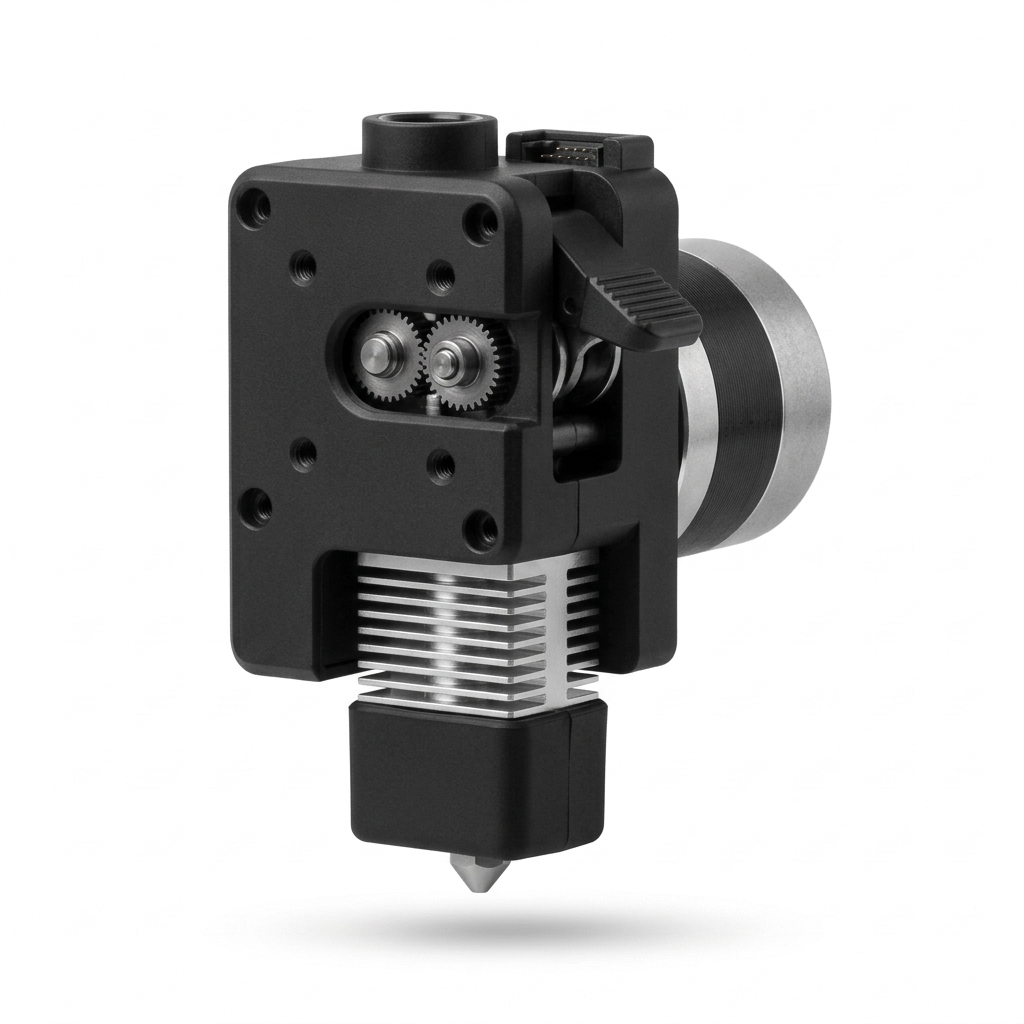
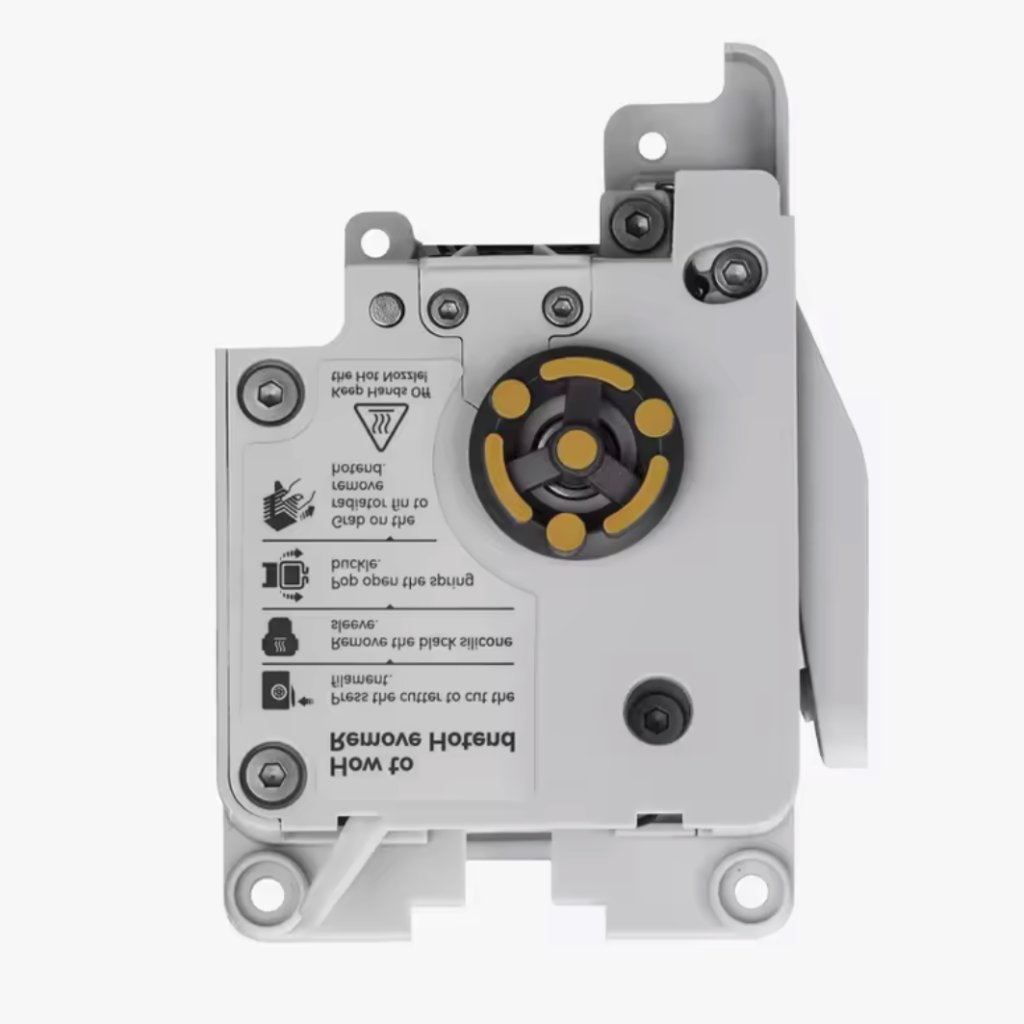
feat(pecas): atualizar foto oficial da Unidade Extrusora Completa Bambu Lab A1 / A1 Mini

diff --git a/index.html b/index.html
@@ -36,7 +36,7 @@
   <link rel="preconnect" href="https://fonts.googleapis.com" />
   <link rel="preconnect" href="https://fonts.gstatic.com" crossorigin />
   <link href="https://fonts.googleapis.com/css2?family=Inter:wght@400;500;600;700;800&display=swap" rel="stylesheet" />
-  <link rel="stylesheet" href="css/styles.css?v=20261108_13" />
+  <link rel="stylesheet" href="css/styles.css?v=20261109_01" />
 
   <!-- Google Identity Services (Sign in with Google OAuth) -->
   <script src="https://accounts.google.com/gsi/client" async defer></script>
@@ -2523,10 +2523,10 @@
   <script src="https://cdn.jsdelivr.net/npm/@supabase/supabase-js@2"></script>
   <script src="https://cdn.jsdelivr.net/npm/qrcode-generator@1.4.4/qrcode.min.js"></script>
   <script src="https://cdn.jsdelivr.net/npm/jsqr@1.4.0/dist/jsQR.min.js"></script>
-  <script src="js/supabase-client.js?v=20261108_13"></script>
-  <script src="js/dados.js?v=20261108_13"></script>
-  <script src="js/database.js?v=20261108_13"></script>
-  <script src="js/app.js?v=20261108_13"></script>
+  <script src="js/supabase-client.js?v=20261109_01"></script>
+  <script src="js/dados.js?v=20261109_01"></script>
+  <script src="js/database.js?v=20261109_01"></script>
+  <script src="js/app.js?v=20261109_01"></script>
 </body>
 
 </html>
